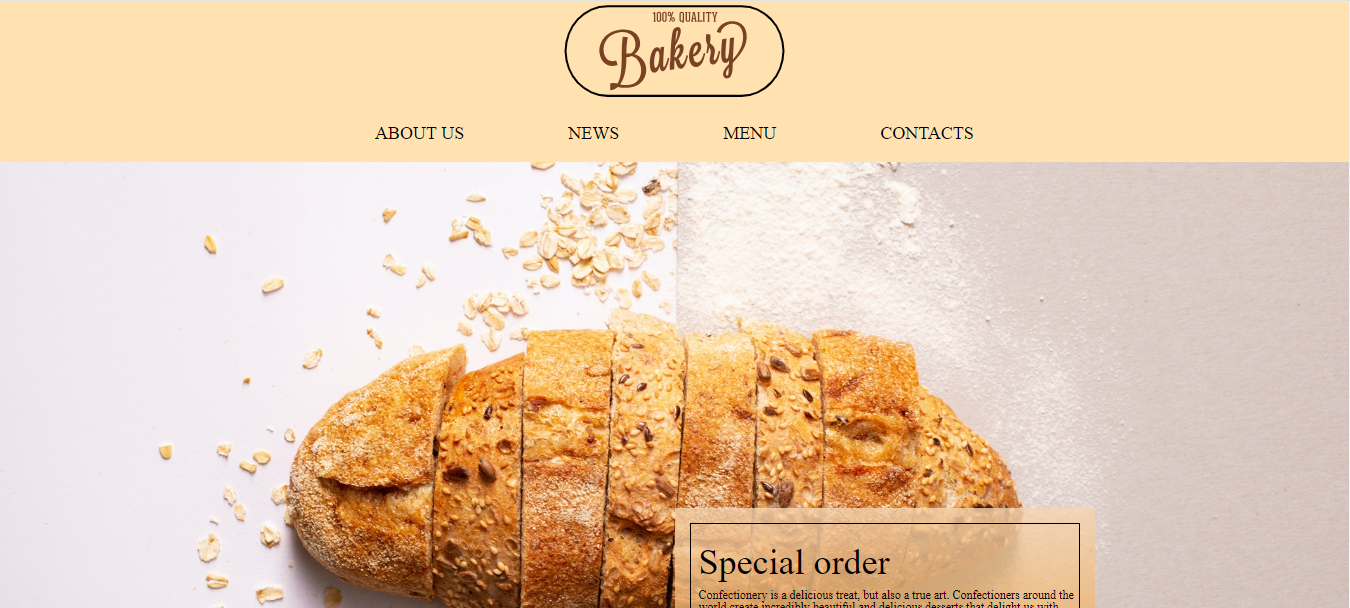
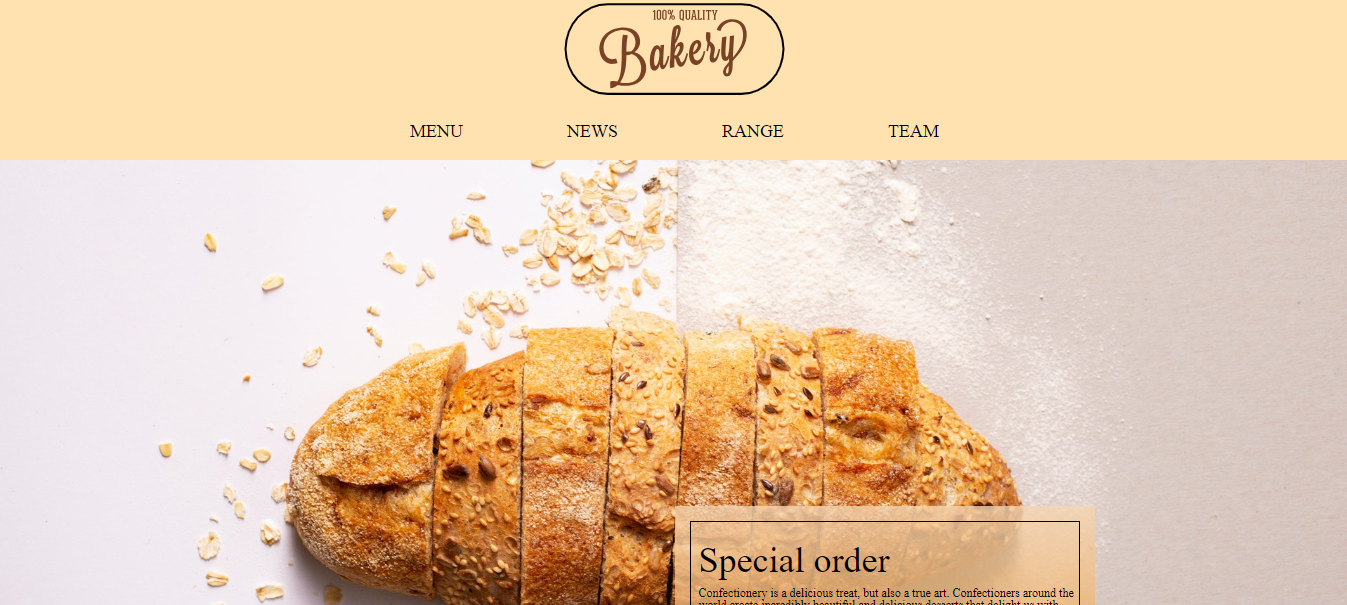
Completed project

diff --git a/src/index.html b/src/index.html
@@ -10,18 +10,16 @@
     <meta name="description" content="The best pastries in town">
 </head>
 <body>
-
     <header>
         <img src="img/01-Logo.svg" alt="Logo image">
     </header>
     <nav>
         <ul>
-            <li><a href="#">ABOUT US</a></li>
-            <li><a href="#">NEWS</a></li>
             <li><a href="#">MENU</a></li>
-            <li><a href="#">CONTACTS</a></li>
+            <li><a href="#">NEWS</a></li>
+            <li><a href="#">RANGE</a></li>
+            <li><a href="#">TEAM</a></li>
         </ul>
-
     </nav>
     <main>
         <section class="section-about">
@@ -58,7 +56,15 @@
         </section>
     </main>
     <footer>
-        <nav></nav>
+        <hr>
+        <nav>
+            <ul>
+                <li><a href="#">ABOUT US</a></li>
+                <li><a href="#">CONTACTS</a></li>
+                <li><a href="#">DELIVERY</a></li>
+                <li><a href="#">HELP</a></li>
+            </ul>
+        </nav>
     </footer>
 </body>
 </html>

diff --git a/src/css/style.css b/src/css/style.css
@@ -107,6 +107,11 @@ nav {
     margin: 0 auto;
     text-align: center;
     width: 1000px;
+    margin-top: 20px;
+}
+
+.section-map {
+    margin-bottom: 20px;
 }
 
 .section-map__title {
@@ -118,4 +123,16 @@ nav {
 iframe {
     display: block;
     margin: 0 auto;
+}
+
+hr {
+    border: none;
+    border-top: 1px solid #999999;
+    width: 1024px;
+    margin: 0 auto;
+    margin-bottom: 20px;
+}
+
+footer {
+    height: 80px;
 }
